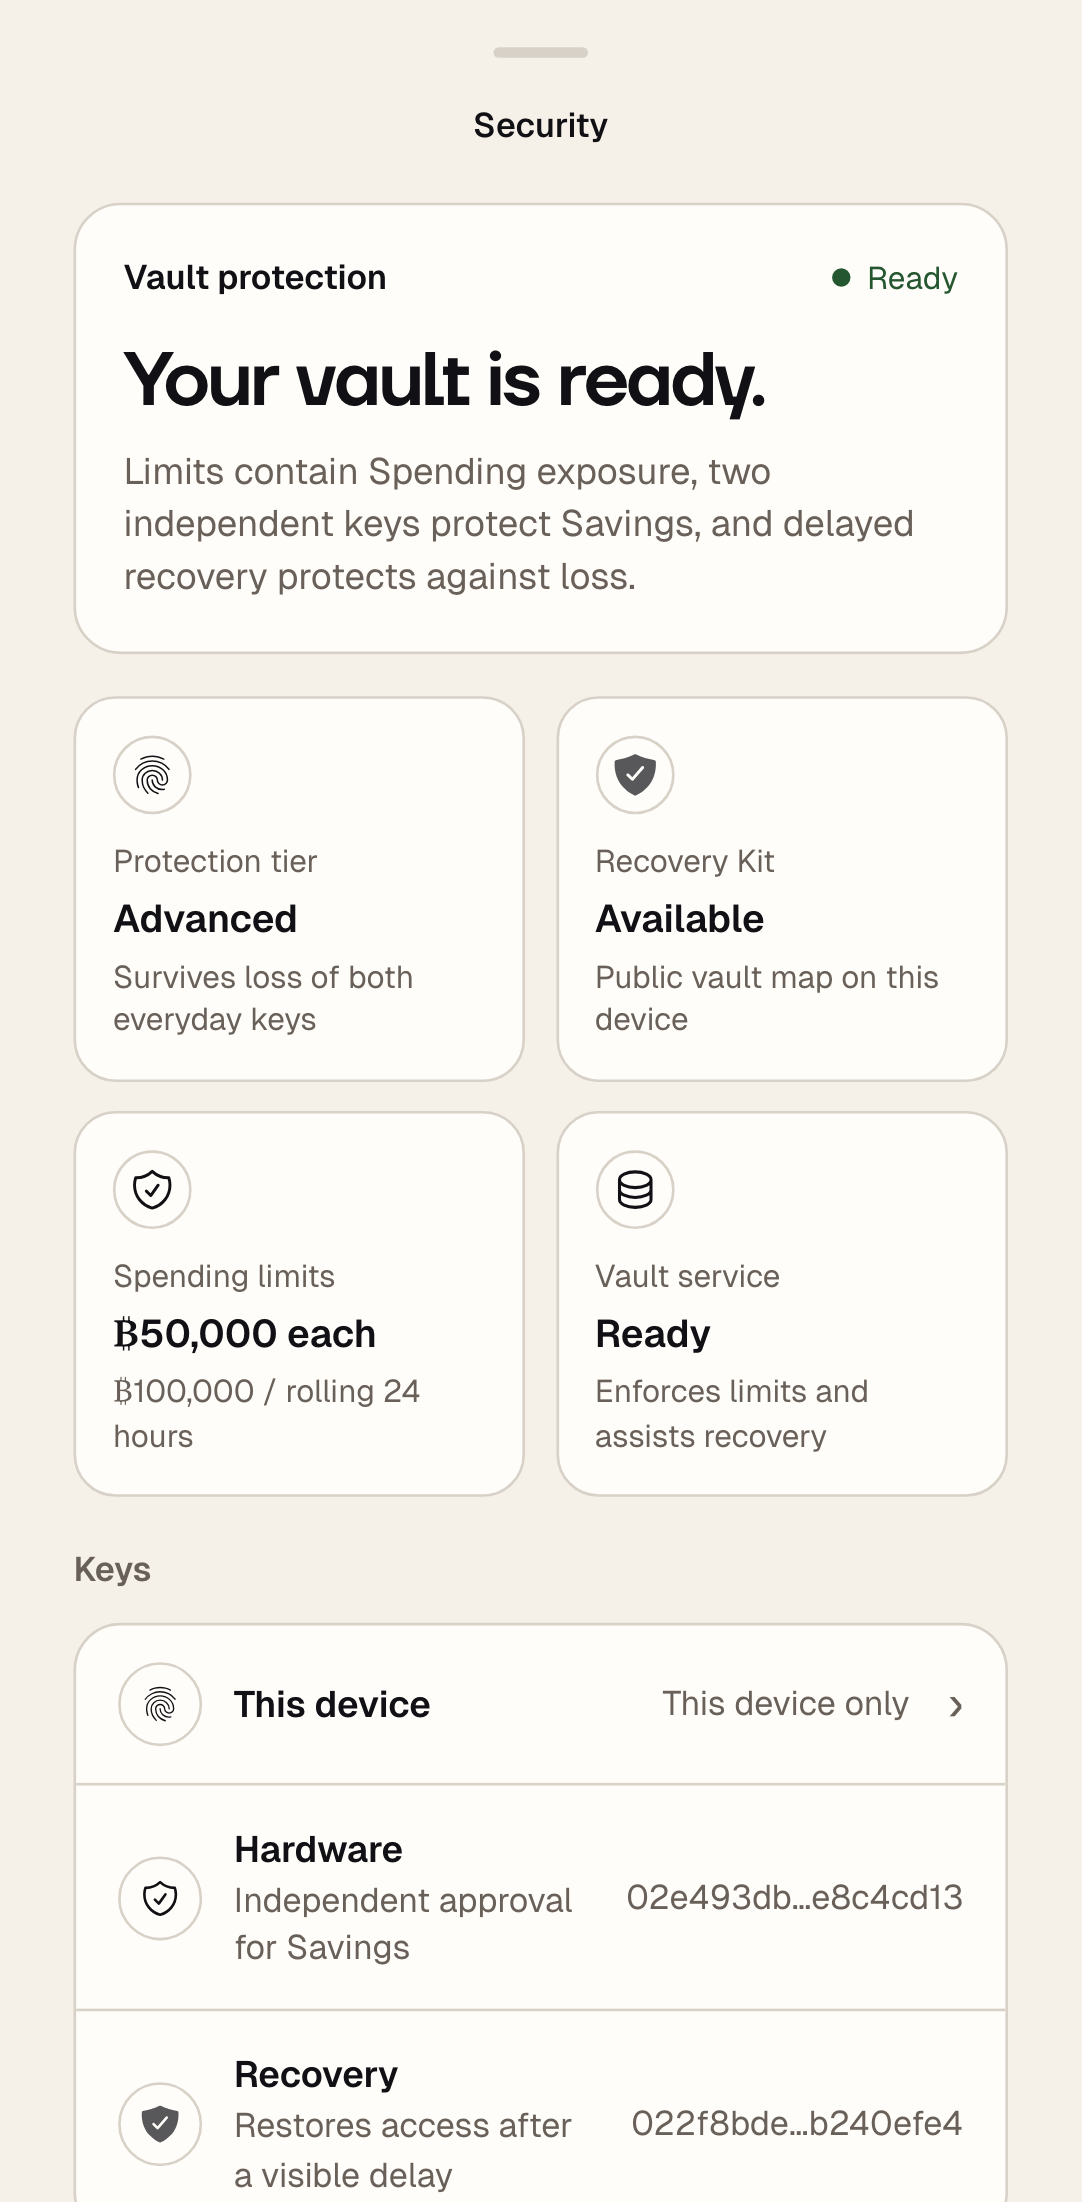
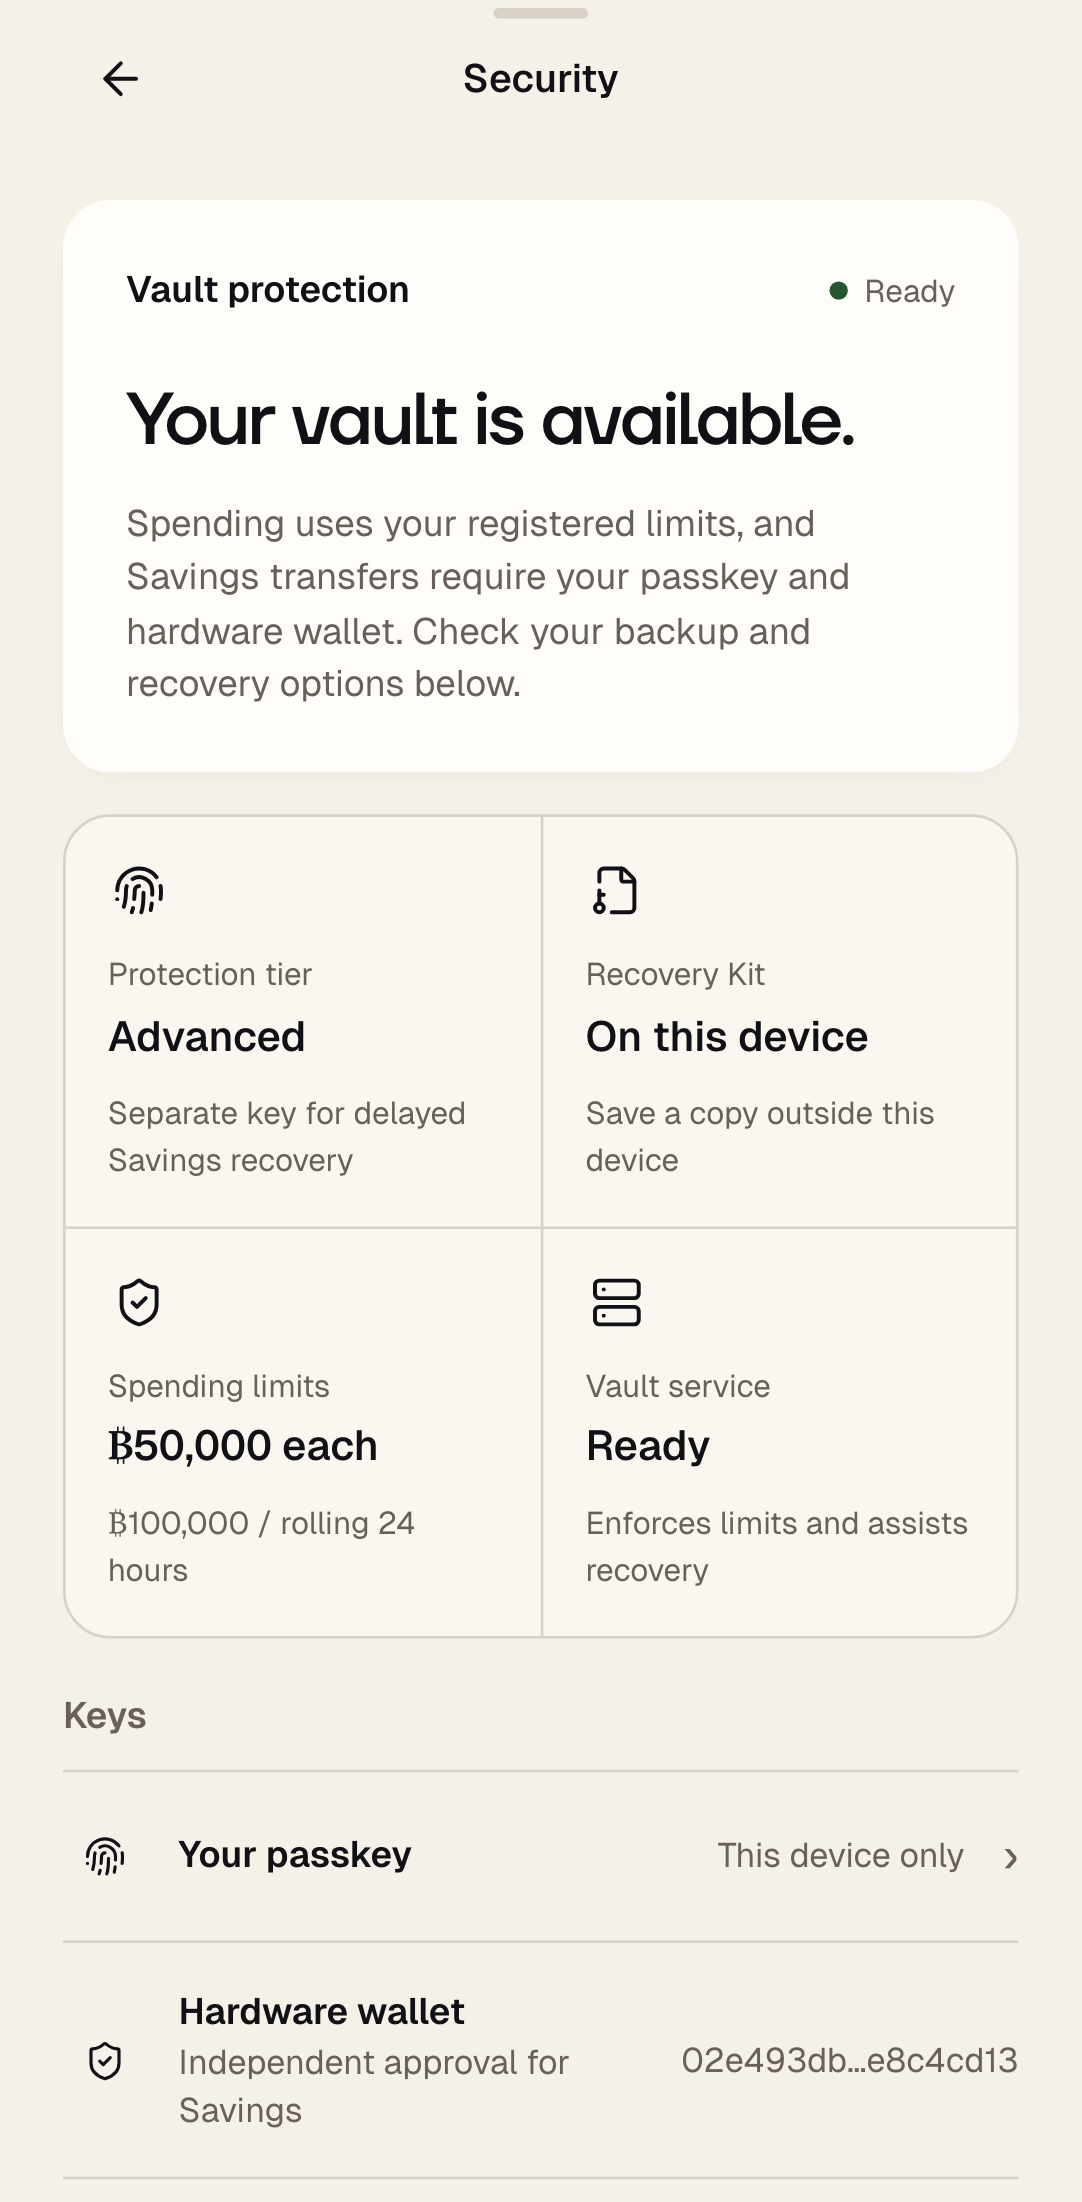
Align combined release tests with onboarding and recovery guidance

diff --git a/src/test/e2e-vault/vault-ui.test.ts b/src/test/e2e-vault/vault-ui.test.ts
@@ -696,7 +696,7 @@ test('validates a pasted Recovery Kit against its committed descriptor', async (
   await page.getByRole('button', { name: 'Open navigation' }).click()
   await page.getByTestId('tab-vault').click()
   await page.getByTestId('security-kit').click()
-  await expect(page.getByRole('heading', { name: 'Recovery Kit' })).toBeVisible()
+  await expect(page.getByRole('heading', { name: 'Recovery Kit', exact: true })).toBeVisible()
   await page.getByRole('button', { name: 'I already have a kit file' }).click()
 
   const input = page.getByTestId('recovery-kit-json')
@@ -724,7 +724,9 @@ test('starts recovery only from a confirmed Savings coin and fences a second des
   await page.getByRole('button', { name: 'Open navigation' }).click()
   await page.getByTestId('tab-vault').click()
   await page.getByTestId('security-lost').click()
-  await expect(page.getByRole('heading', { name: 'Lost a key' })).toBeVisible()
+  await expect(page.getByRole('heading', { name: 'Access and recovery', exact: true })).toBeVisible()
+  await page.getByRole('radio', { name: 'I can’t use my passkey' }).click()
+  await page.getByRole('button', { name: 'Review recovery preparation' }).click()
 
   state.savingsUtxos = [{ ...coin, status: { confirmed: false } }]
   await page.getByTestId('recover-initiate').click()
@@ -732,7 +734,7 @@ test('starts recovery only from a confirmed Savings coin and fences a second des
 
   state.savingsUtxos = [coin]
   await page.getByTestId('recover-initiate').click()
-  await expect(page.getByText('Transaction copied. Sign it with the key you still have.')).toBeVisible()
+  await expect(page.getByTestId('recovery-prepared')).toBeVisible()
   const psbt = await page.evaluate(() => navigator.clipboard.readText())
   const initiation = await page.evaluate(
     async ({ id, kitPath, rawPsbt, spendPath }) => {
@@ -773,14 +775,14 @@ test('surfaces a mature recovery and preserves claimant-aware guardian cancellat
   await installPendingRecovery(page, status.vaultId, 'hardware', coin)
 
   const alert = page.getByTestId('initiate-alert')
-  await expect(alert).toContainText('Recovery started with hardware')
+  await expect(alert).toContainText('Savings recovery detected')
   await alert.click()
   await expect(page.getByRole('heading', { name: 'Recovery', exact: true })).toBeVisible()
   await expect(page.getByRole('region', { name: 'Recovery status' })).toContainText('In process')
 
   await page.getByTestId('recover-claim-dest').fill(status.savingsAddress)
   await page.getByTestId('recover-claim').click()
-  await expect(page.getByText('Transaction copied. Sign it with the key you still have.')).toBeVisible()
+  await expect(page.getByTestId('recovery-prepared')).toBeVisible()
   const claimPsbt = await page.evaluate(() => navigator.clipboard.readText())
   const claim = await page.evaluate(
     async ({ rawPsbt, spendPath }) => {
@@ -1021,7 +1023,7 @@ test('@polish covers accessible account, send, Security, and Settings states', a
   await expect(page.getByTestId('security-lost')).toBeVisible()
 
   await page.getByTestId('security-kit').click()
-  await expect(page.getByRole('heading', { name: 'Recovery Kit' })).toBeVisible()
+  await expect(page.getByRole('heading', { name: 'Recovery Kit', exact: true })).toBeVisible()
   await expectNoBlockingAxeViolations(page)
   await expect(page).toHaveScreenshot('recovery-kit.png', { animations: 'disabled', fullPage: true })
   await page.getByRole('button', { name: /I lost a key/ }).click()
@@ -1417,18 +1419,26 @@ test('@interaction launcher momentum glides, can be caught, and remembers its re
   const y = start.y + 20
   // Native touch input in Chromium; WebKit uses its native mouse pointer stream.
   const cdp = browserName === 'chromium' ? await page.context().newCDPSession(page) : null
-  if (cdp) await cdp.send('Input.dispatchTouchEvent', { type: 'touchStart', touchPoints: [{ x, y }] })
+  const gestureTime = Date.now() / 1000
+  if (cdp)
+    await cdp.send('Input.dispatchTouchEvent', { type: 'touchStart', timestamp: gestureTime, touchPoints: [{ x, y }] })
   else {
     await page.mouse.move(x, y)
     await page.mouse.down()
   }
   for (let step = 1; step <= 5; step++) {
-    if (cdp) await cdp.send('Input.dispatchTouchEvent', { type: 'touchMove', touchPoints: [{ x, y: y - step * 24 }] })
+    if (cdp)
+      await cdp.send('Input.dispatchTouchEvent', {
+        type: 'touchMove',
+        timestamp: gestureTime + step * 0.02,
+        touchPoints: [{ x, y: y - step * 24 }],
+      })
     else await page.mouse.move(x, y - step * 24)
     await page.waitForTimeout(16)
   }
   const released = (await tab.boundingBox())!.y
-  if (cdp) await cdp.send('Input.dispatchTouchEvent', { type: 'touchEnd', touchPoints: [] })
+  if (cdp)
+    await cdp.send('Input.dispatchTouchEvent', { type: 'touchEnd', timestamp: gestureTime + 0.12, touchPoints: [] })
   else await page.mouse.up()
   await expect(tab).toHaveClass(/is-coasting/)
   await expect.poll(async () => (await tab.boundingBox())!.y).toBeLessThan(released - 12)

diff --git a/src/test/e2e-vault/passkey.test.ts b/src/test/e2e-vault/passkey.test.ts
@@ -122,7 +122,7 @@ test('creates and resumes a Savings hardware handoff through the passkey-backed 
     mimeType: 'application/octet-stream',
     buffer: Buffer.from(hardwareSigned, 'hex'),
   })
-  await expect(page.getByText('hardware-signed.psbt is ready to broadcast.')).toBeVisible()
+  await expect(page.getByText('hardware-signed.psbt is ready to check.')).toBeVisible()
   // A success response for another transaction must not discard the durable handoff.
   let rejectedBroadcast = ''
   await page.route(
@@ -133,7 +133,7 @@ test('creates and resumes a Savings hardware handoff through the passkey-backed 
     },
     { times: 1 },
   )
-  await page.getByRole('button', { name: 'Broadcast transaction' }).click()
+  await page.getByRole('button', { name: 'Check and send transaction' }).click()
   await expect(page.getByRole('alert')).toBeVisible()
   expect(rejectedBroadcast).toBe(finalizeSavingsPsbt(hardwareSigned).txHex)
   expect(
@@ -144,7 +144,7 @@ test('creates and resumes a Savings hardware handoff through the passkey-backed 
   ).not.toBeNull()
   expect(authorizer.broadcastedTransaction()).toBe('')
 
-  await page.getByRole('button', { name: 'Broadcast transaction' }).click()
+  await page.getByRole('button', { name: 'Check and send transaction' }).click()
   await expect(page.getByRole('heading', { name: 'Savings transfer submitted' })).toBeVisible()
   await expect.poll(() => authorizer.broadcastedTransaction()).toBe(finalizeSavingsPsbt(hardwareSigned).txHex)
   await expect

diff --git a/src/test/e2e-vault/fixtures/passkey.ts b/src/test/e2e-vault/fixtures/passkey.ts
@@ -746,7 +746,7 @@ export const test = base.extend<Fixtures>({
 
 export async function reachPasskeySetup(page: Page) {
   await page.goto('/')
-  await expect(page.getByRole('heading', { name: /Spend freely/ })).toBeVisible()
+  await expect(page.getByRole('heading', { name: /Everyday spending/ })).toBeVisible()
   await page.getByRole('button', { name: 'Get started' }).click()
   await page.getByRole('button', { name: 'Continue' }).click()
   await page.getByTestId('hardware-pub').fill(PROGRAM_FIXTURE.hardwarePub)
@@ -764,7 +764,7 @@ export async function enrollVaultWithPasskey(page: Page, authorizer: FakePasskey
   await page.getByRole('button', { name: 'Create Vault' }).click()
   await expect(page.getByText('Your Vault')).toBeVisible()
   await page.getByRole('button', { name: 'Save Recovery Kit' }).click()
-  await page.getByRole('button', { name: 'I already saved it' }).click()
+  await page.getByRole('button', { name: 'I’ll save a separate copy later' }).click()
   await page.getByRole('button', { name: 'Open your Vault' }).click()
   await expect(page.getByTestId('account-switcher')).toBeVisible()
 }

diff --git a/src/test/e2e-vault/onboard.test.ts b/src/test/e2e-vault/onboard.test.ts
@@ -3,10 +3,10 @@ import { PROGRAM_FIXTURE } from '../../lib/vault/program/fixtures'
 
 async function setupToThisDevice(page: Page) {
   await page.goto('/')
-  await expect(page.getByRole('heading', { name: /Spend freely/ })).toBeVisible()
+  await expect(page.getByRole('heading', { name: /Everyday spending/ })).toBeVisible()
   await page.getByRole('button', { name: 'Get started' }).click()
 
-  await expect(page.getByRole('heading', { name: 'Different money needs different protection' })).toBeVisible()
+  await expect(page.getByRole('heading', { name: 'Everyday spending, protected savings' })).toBeVisible()
   await page.getByRole('button', { name: 'Continue' }).click()
 
   await expect(page.getByRole('heading', { name: 'Add your hardware key' })).toBeVisible()

diff --git a/src/screens/Vault/VaultApp.test.tsx b/src/screens/Vault/VaultApp.test.tsx
@@ -32,7 +32,7 @@ describe('VaultApp onboarding', () => {
     )
     renderVault()
 
-    expect(await screen.findByRole('heading', { name: /Spend freely/ })).toBeTruthy()
+    expect(await screen.findByRole('heading', { name: /Everyday spending/ })).toBeTruthy()
     expect(screen.queryByRole('button', { name: 'Look around first' })).toBeNull()
     expect(screen.queryByRole('button', { name: 'Sign in' })).toBeNull()
     expect(screen.getByRole('button', { name: 'Get started' })).toBeTruthy()
